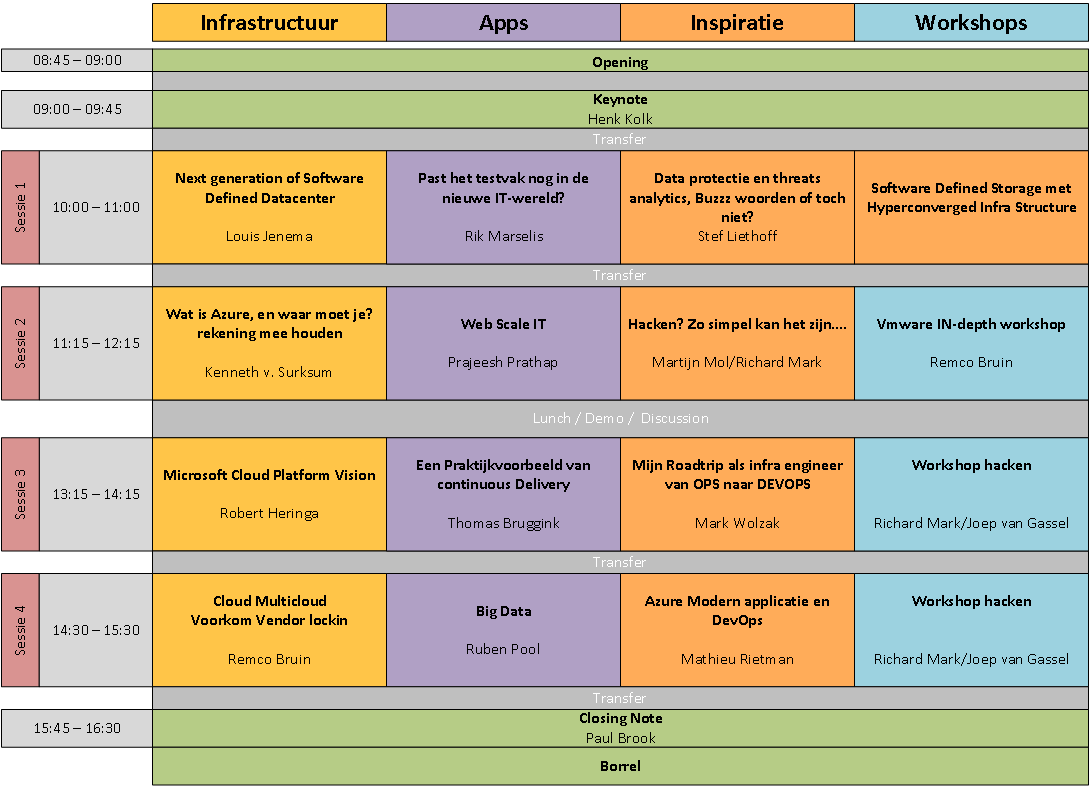
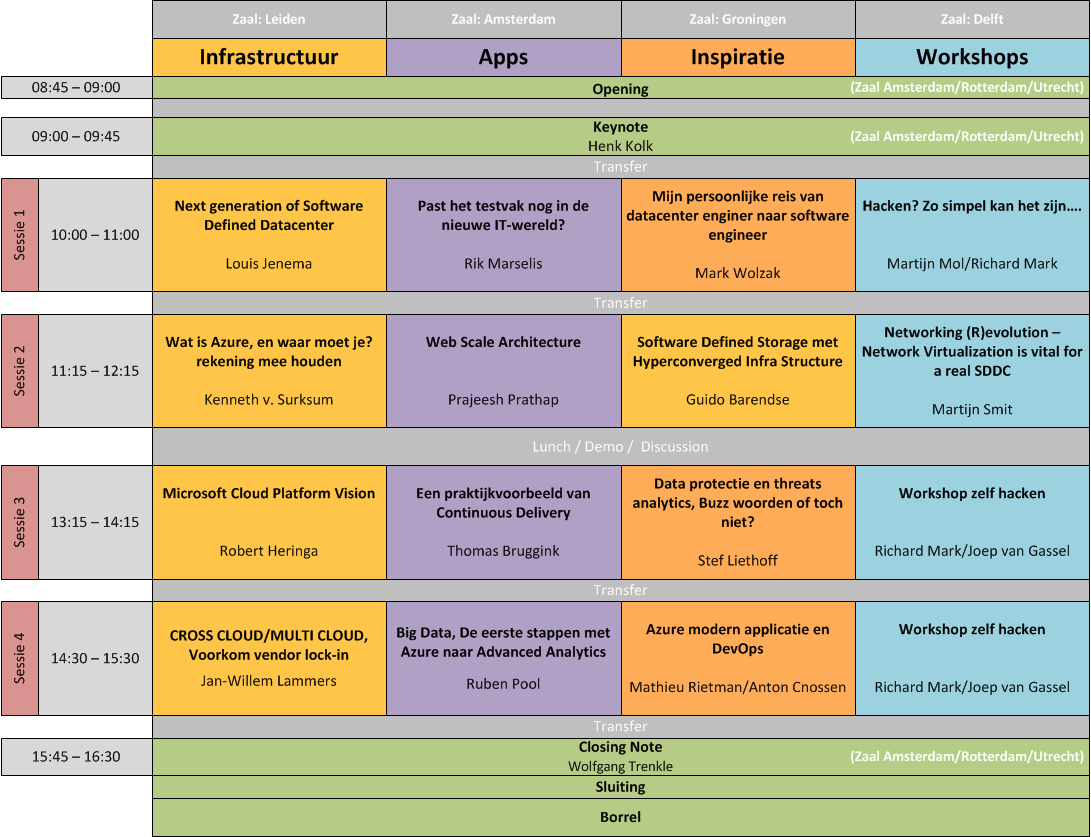
Bio bijgewerkt

diff --git a/_sessies/modern-development.md b/_sessies/modern-development.md
@@ -1,11 +1,11 @@
 ---
-sprekers: [tomas-bruggink]
+sprekers: [thomas-bruggink]
 track: Apps
 titel: Een praktijk voorbeeld van continuous delivery
 tijd: 13:15-14:15
 locatie: Zaal A
 ---
-containerization met behulp van Docker, inzet van Microsoft Release Management, test automation met behulp van SpecFlow, proactieve monitoring met ElasticSearch en Kibana,team foundation server als Source Control systeem
+Containerization met behulp van Docker, inzet van Release Management met TFS, test automation met behulp van SpecFlow, proactieve monitoring met ElasticSearch en Kibana en GIT als Source Control systeem. Welke tool gebruik je waarvoor en hoe houd je controle op een continuous delivery project. Vanuit een voorbeeld uit de praktijk wil ik laten zien hoe wij invulling geven aan dev ops en continuous delivery en hoe je dit beheersbaar houdt.
 
 
 

diff --git a/_sprekers/thomas-bruggink.md b/_sprekers/thomas-bruggink.md
@@ -1,5 +1,6 @@
 ---
 naam: Thomas Bruggink
 titel: Software Engineer at Info Support
-ref: tomas-bruggink
+ref: thomas-bruggink
 ---
+Als dev ops engineer bezig met het bouwen, releasen en beheren van applicaties. Ik heb een passie voor het ontwikkelen van applicaties in een web scale landschap.
